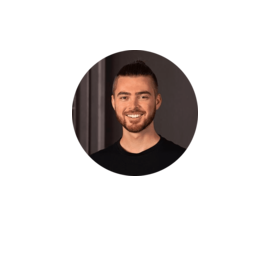
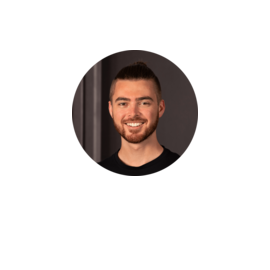
Enhance profile picture

Changed region(s): [[0.2667, 0.2074, 0.6815, 0.6222]]

diff --git a/components/organisms/base-head.tsx b/components/organisms/base-head.tsx
@@ -2,10 +2,12 @@ export default function BaseHead() {
     return (
         <>
             <meta name="viewport" content="width=device-width, initial-scale=1"></meta>
-            <link rel="apple-touch-icon" sizes="180x180" href="/apple-touch-icon.png?v=2" />
-            <link rel="icon" type="image/png" sizes="32x32" href="/favicon-32x32.png?v=2" />
-            <link rel="icon" type="image/png" sizes="16x16" href="/favicon-16x16.png?v=2" />
-            <link rel="manifest" href="/site.webmanifest?v=2" />
+            <link rel="apple-touch-icon" sizes="180x180" href="/apple-touch-icon.png?v=3" />
+            <link rel="icon" type="image/png" sizes="32x32" href="/favicon-32x32.png?v=3" />
+            <link rel="icon" type="image/png" sizes="16x16" href="/favicon-16x16.png?v=3" />
+            <link rel="manifest" href="/site.webmanifest?v=3" />
+            <meta name="apple-mobile-web-app-title" content="rath-heel.com" />
+            <meta name="application-name" content="rath-heel.com" />
             <meta name="msapplication-TileColor" content="#2b5797" />
             <meta name="theme-color" content="#ffffff" />
         </>

diff --git a/components/organisms/header.tsx b/components/organisms/header.tsx
@@ -9,7 +9,7 @@ export default function Header() {
             <div className="mx-auto flex max-w-sm flex-col items-center gap-y-4 sm:max-w-md">
                 <Image
                     className="h-32 w-32 rounded-full object-cover drop-shadow-lg"
-                    src="/images/luca-rath-heel.png?v=2"
+                    src="/images/luca-rath-heel.png?v=3"
                     alt="Luca Rath-Heel"
                     width={128}
                     height={128}
